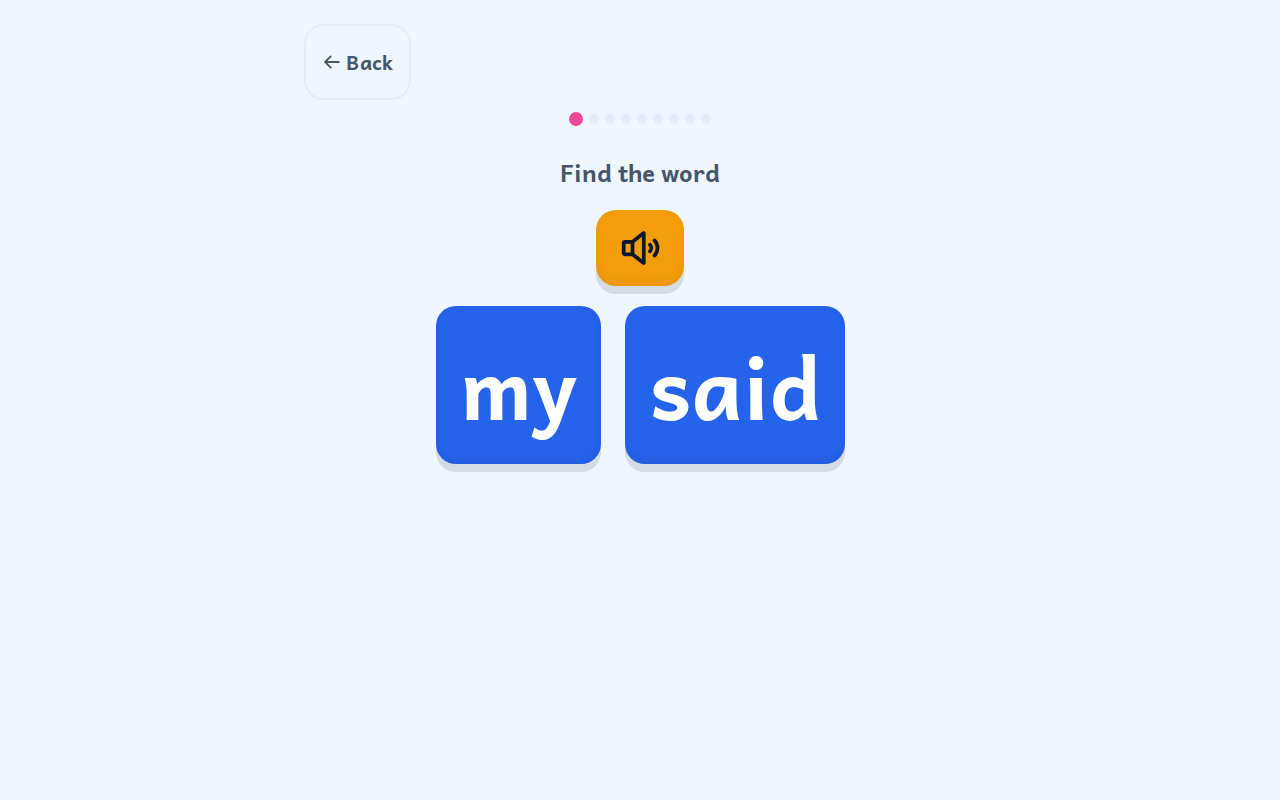
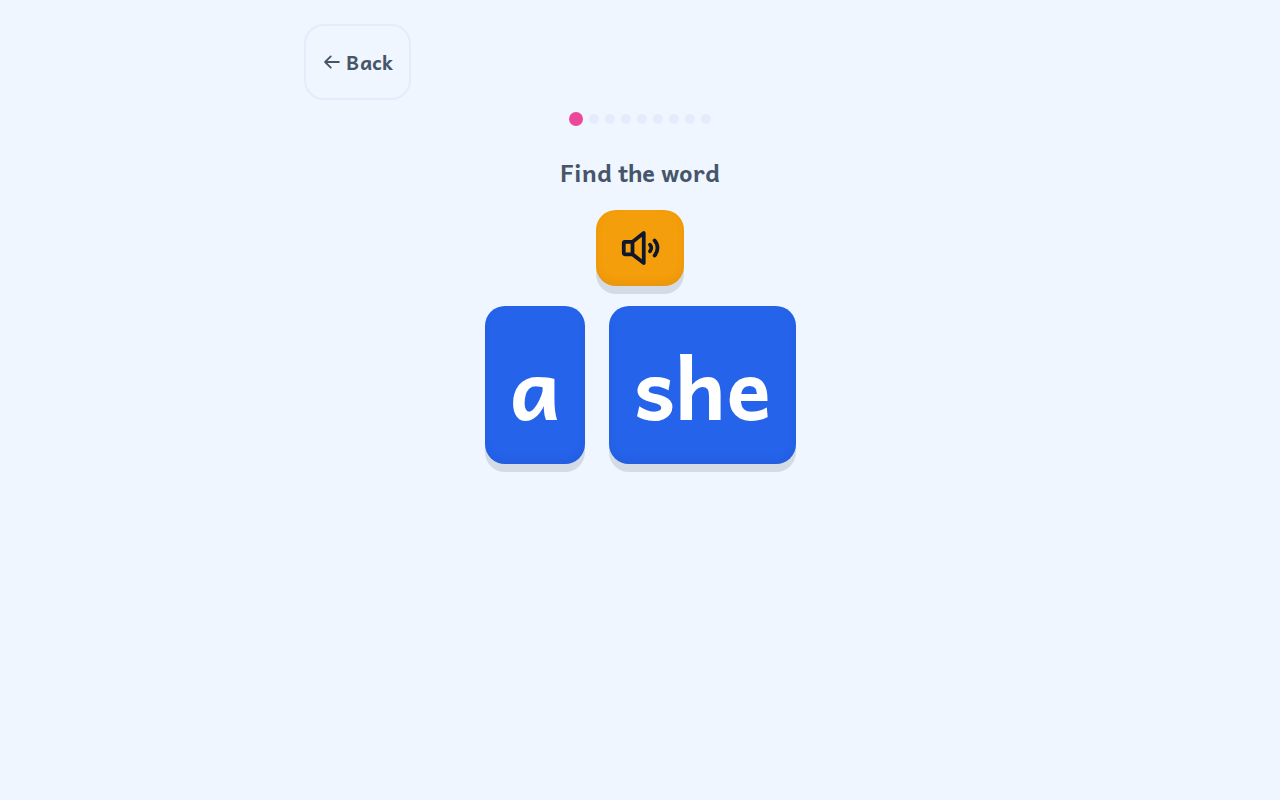
feat(find): blank tiles while the word is shown, and a label that says what the tap does
Find it's errorless reveal is four seconds on a box-0 word: instruction,
speaker, a word that appears and vanishes, and nothing to tap. A parent
watching read it as "is something missing?". The tiles are on screen
from the start now -- full size, dimmed, inert and blank. Blank is the
part that matters: dimmed tiles with the words on them would put `said`
back beside the written `said` and the shape match back with it. Empty
clay shapes say only "these are coming".

"Tell them" promised the parent would; the tap plays the word. It is
"Say it for them" now, in Read it and the card run.

The grown-up switch says what turning it on changes: "In Read it rounds
you judge: tap They read it, or Say it for them."

ClayButton gains a disabled state (full size, 40% opacity, inert to
taps and the tap animation). The e2e helpers and three specs wait for a
tile to be enabled before tapping it.

Claude-Session: https://claude.ai/code/session_017EswceWBJzqch5pch5GVbX

Changed region(s): [[0.3438, 0.375, 0.6875, 0.5938]]

diff --git a/tests/unit/games/word-reveal.test.tsx b/tests/unit/games/word-reveal.test.tsx
@@ -1,5 +1,5 @@
 import { describe, it, expect, vi, beforeEach, afterEach } from 'vitest'
-import { act, render, screen } from '@testing-library/react'
+import { act, render, screen, within } from '@testing-library/react'
 import userEvent from '@testing-library/user-event'
 import { ROUND_TYPES, type RoundType } from '@/components/games'
 import { ListenAndFind } from '@/components/games/ListenAndFind'
@@ -89,14 +89,22 @@ describe('the word is shown, spoken, hidden, and only then asked for', () => {
   it('opens on the written word with nothing to tap', () => {
     render(<ListenAndFind round={boxZero()} onAnswer={() => {}} onMiss={() => {}} />)
     expect(screen.getByTestId('prompt-word')).toHaveTextContent(said.text)
-    expect(screen.queryByTestId('choices')).toBeNull()
+    // The tiles are on screen so the wait reads as a wait, but every one
+    // is inert -- and blank, so the written word has no twin to match
+    // among them.
+    const tiles = screen.getByTestId('choices')
+    for (const b of within(tiles).getAllByRole('button')) expect(b).toBeDisabled()
+    // The word is drawn grapheme by grapheme, so look at every text node.
+    for (const t of within(tiles).queryAllByText(/\S/)) expect(t).not.toBeVisible()
+    expect(within(tiles).queryAllByText(/\S/).length).toBeGreaterThan(0)
   })
 
   it('takes the word away before the choices arrive', () => {
     render(<ListenAndFind round={boxZero()} onAnswer={() => {}} onMiss={() => {}} />)
     playOutReveal()
     expect(screen.queryByTestId('prompt-word')).toBeNull()
-    expect(screen.getByTestId('choices')).toBeInTheDocument()
+    for (const b of within(screen.getByTestId('choices')).getAllByRole('button')) expect(b).toBeEnabled()
+    expect(screen.getByTestId('choices')).toHaveTextContent(said.text)
   })
 
   /**
@@ -110,7 +118,7 @@ describe('the word is shown, spoken, hidden, and only then asked for', () => {
     const upFor = spokenMs('findTheWord', said.audioId)
     advance(upFor - 50)
     expect(screen.getByTestId('prompt-word')).toBeInTheDocument()
-    expect(screen.queryByTestId('choices')).toBeNull()
+    for (const b of within(screen.getByTestId('choices')).getAllByRole('button')) expect(b).toBeDisabled()
     advance(50 + REVEAL_FADE_MS + 10)
     expect(screen.queryByTestId('prompt-word')).toBeNull()
   })
@@ -168,7 +176,15 @@ describe.each(Object.entries(ROUND_TYPES))('round type: %s', (id, Game) => {
   it('never shows the written word beside the things the child taps', () => {
     render(<Game round={boxZero()} onAnswer={() => {}} onMiss={() => {}} />)
     const wordUp = screen.queryByTestId('prompt-word') !== null
-    if (wordUp) expect(screen.queryByTestId(tappable)).toBeNull()
+    if (wordUp) {
+      // Either not there yet, or there as blank inert placeholders --
+      // never a live tile with a word on it beside the written word.
+      const early = screen.queryByTestId(tappable)
+      if (early) {
+        for (const b of within(early).getAllByRole('button')) expect(b).toBeDisabled()
+        for (const t of within(early).queryAllByText(/\S/)) expect(t).not.toBeVisible()
+      }
+    }
     playOutReveal()
     expect(screen.queryByTestId('prompt-word')).toBeNull()
     expect(screen.getByTestId(tappable)).toBeInTheDocument()

diff --git a/src/components/games/ListenAndFind.tsx b/src/components/games/ListenAndFind.tsx
@@ -100,7 +100,7 @@ export function ListenAndFind({ round, onAnswer, onMiss }: GameProps) {
   }
 
   function choose(id: string) {
-    if (closing !== 'asking') return
+    if (!asking || closing !== 'asking') return
     if (id === round.word.id) {
       answeredPrompted.current = prompted
       praiseEndsAt.current = Date.now() + say('wellDone')
@@ -157,15 +157,34 @@ export function ListenAndFind({ round, onAnswer, onMiss }: GameProps) {
         than listening and always works; a beat after it, the tap is a
         small act of memory.
 
+        But the wait is four seconds on a box-0 word, and for a parent
+        watching it was four seconds of "is something missing up there?"
+        -- an instruction, a speaker, a word that appears and vanishes,
+        and nothing to tap. So the tiles are on screen from the start:
+        full size, dimmed, inert, and *blank*. Blank is the part that
+        matters. Dimmed tiles with the words on them would put `said`
+        back beside the written `said`, and the shape match would be
+        back with them; a child could find it while the word was still
+        up and tap it the instant they woke. Empty clay shapes say only
+        "these are coming", which is all the screen needed to say.
+
         They go once the answer is in, so the closing moment has the
         screen to itself and a second tap cannot land on a round that is
         already over.
       */}
-      {asking && closing === 'asking' && (
-        <div data-testid="choices" className="flex flex-wrap justify-center gap-6">
+      {closing === 'asking' && (
+        <div data-testid="choices" aria-busy={!asking} className="flex flex-wrap justify-center gap-6">
           {choices.map((w) => (
-            <ClayButton key={w.id} tone="primary" ariaLabel={w.text} onPress={() => choose(w.id)}>
-              <WordTile word={w} size="lg" />
+            <ClayButton
+              key={w.id}
+              tone="primary"
+              ariaLabel={w.text}
+              disabled={!asking}
+              onPress={() => choose(w.id)}
+            >
+              <span style={{ visibility: asking ? undefined : 'hidden' }}>
+                <WordTile word={w} size="lg" />
+              </span>
             </ClayButton>
           ))}
         </div>

diff --git a/src/components/clay/Button.tsx b/src/components/clay/Button.tsx
@@ -9,6 +9,11 @@ interface Props {
   icon?: boolean
   tone?: 'primary' | 'play' | 'fun'
   onPress: () => void
+  /**
+   * Present but not yet live: rendered at full size so nothing moves
+   * when it wakes, dimmed, and inert to taps and to the tap animation.
+   */
+  disabled?: boolean
   children?: ReactNode
 }
 
@@ -19,20 +24,22 @@ const TONES = {
 } as const
 
 export function ClayButton({
-  label, ariaLabel, icon, tone = 'primary', onPress, children,
+  label, ariaLabel, icon, tone = 'primary', onPress, disabled = false, children,
 }: Props) {
   return (
     <motion.button
       type="button"
       aria-label={ariaLabel ?? label}
       onClick={onPress}
-      whileTap={{ scale: 0.95 }}
+      disabled={disabled}
+      whileTap={disabled ? undefined : { scale: 0.95 }}
       transition={{ type: 'spring', stiffness: 400, damping: 22 }}
       style={{ minWidth: MIN_TARGET_PX, minHeight: MIN_TARGET_PX }}
       className={`${TONES[tone]} rounded-clay shadow-clay px-6 py-4
         text-[clamp(1.25rem,2.4vw,1.75rem)] font-bold cursor-pointer select-none
         focus-visible:outline-4 focus-visible:outline-offset-4
-        focus-visible:outline-fun`}
+        focus-visible:outline-fun
+        disabled:opacity-40 disabled:cursor-default disabled:pointer-events-none`}
     >
       {children ?? (icon ? null : label)}
     </motion.button>

diff --git a/tests/unit/family/card-run.test.tsx b/tests/unit/family/card-run.test.tsx
@@ -40,7 +40,7 @@ describe('going through the cards', () => {
 
   it('is the adult who answers, at an adult size', () => {
     run()
-    for (const name of ['They read it', 'Tell them the word']) {
+    for (const name of ['They read it', 'Say the word for them']) {
       expect(screen.getByRole('button', { name }).style.minHeight)
         .toBe(`${ADULT_TARGET_PX}px`)
     }
@@ -54,7 +54,7 @@ describe('going through the cards', () => {
     expect(onRead.mock.calls[0][1]).toBe(true)
     expect(screen.getByText(`Card 2 of ${SET.words.length}`)).toBeInTheDocument()
 
-    await userEvent.click(screen.getByRole('button', { name: 'Tell them the word' }))
+    await userEvent.click(screen.getByRole('button', { name: 'Say the word for them' }))
     expect(onRead.mock.calls[1][1]).toBe(false)
     // Telling them means they hear it -- that is what telling them is.
     expect(played.join(' ')).toContain(wordAudioUrl(onRead.mock.calls[1][0].audioId))
@@ -64,7 +64,7 @@ describe('going through the cards', () => {
     run()
     for (let i = 0; i < SET.words.length; i++) {
       await userEvent.click(screen.getByRole('button', {
-        name: i === 0 ? 'Tell them the word' : 'They read it',
+        name: i === 0 ? 'Say the word for them' : 'They read it',
       }))
     }
     expect(screen.getByTestId('card-run-done')).toBeInTheDocument()

diff --git a/src/components/games/ReadIt.tsx b/src/components/games/ReadIt.tsx
@@ -51,7 +51,7 @@ const ADULT_PANEL = `flex flex-col gap-3 w-full max-w-md rounded-clay border-2 b
  *  - **With a grown-up**, the grown-up judges, from adult-sized controls
  *    worded for an adult. That *is* evidence -- it is the school's own
  *    assessment, done at the kitchen table -- so "They read it" resolves
- *    unaided and promotes like any other round, and "Tell them" speaks
+ *    unaided and promotes like any other round, and "Say it for them" speaks
  *    the word and resolves prompted, exactly as a hint does elsewhere.
  *
  * Then the second half of the school's routine, which only happens with
@@ -194,7 +194,7 @@ export function ReadIt({ round, onAnswer, onMiss, onRead }: GameProps) {
           <p className="leading-normal">Did they read it on their own?</p>
           <div className="flex flex-wrap gap-4">
             <AdultButton label="They read it" primary onPress={() => adultConfirmed(true)} />
-            <AdultButton label="Tell them" ariaLabel="Tell them the word" onPress={() => adultConfirmed(false)} />
+            <AdultButton label="Say it for them" ariaLabel="Say the word for them" onPress={() => adultConfirmed(false)} />
           </div>
         </div>
       ) : (

diff --git a/src/components/family/CardRun.tsx b/src/components/family/CardRun.tsx
@@ -23,7 +23,7 @@ import type { Word } from '@/lib/words/types'
  * So: no rounds, no budget, no rotation, no reward. Every word on the
  * island in turn, the word alone with no sound, and two adult controls.
  * It is the same judgement a Read it round asks for and it is recorded
- * the same way -- "They read it" is unaided and promotes, "Tell them"
+ * the same way -- "They read it" is unaided and promotes, "Say it for them"
  * speaks the word and does not. The ordinary day floor still applies, so
  * going through the cards twice in an evening cannot run a word up the
  * ladder.
@@ -118,7 +118,7 @@ export function CardRun({ words, onRead, onDone }: Props) {
 
       <div className="flex flex-wrap justify-center gap-4">
         <AdultButton label="They read it" primary onPress={() => answer(true)} />
-        <AdultButton label="Tell them" ariaLabel="Tell them the word" onPress={() => answer(false)} />
+        <AdultButton label="Say it for them" ariaLabel="Say the word for them" onPress={() => answer(false)} />
       </div>
     </div>
   )

diff --git a/src/components/clay/AdultButton.tsx b/src/components/clay/AdultButton.tsx
@@ -13,9 +13,13 @@ import { ADULT_TARGET_PX } from '@/lib/constants'
  * the border, not the fill.
  *
  * Shared by Read it and the card run because they are the same judgement
- * -- "They read it" / "Tell them" -- a minute apart, and for a while they
+ * -- "They read it" / "Say it for them" -- a minute apart, and for a while they
  * wore two visual languages: the card run's filled blue against Read
  * it's outline. Same words, same weight, same button.
+ *
+ * The second label was "Tell them" for a while, which promised that the
+ * parent would. What happens is that the app says the word -- the tap
+ * plays it -- so the label now says what the tap does.
  */
 export function AdultButton(
   { label, ariaLabel, primary, onPress }: {

diff --git a/tests/e2e/game-helpers.ts b/tests/e2e/game-helpers.ts
@@ -176,6 +176,10 @@ export async function awaitRoundSettled(page: Page): Promise<void> {
 async function tapTargetWord(page: Page): Promise<void> {
   const target = await targetWord(page)
   const buttons = page.getByTestId(ROUND_TESTID.find).getByRole('button')
+  // The tiles are on screen from the top of the round, blank and inert
+  // until the word has been shown and taken away; a forced click on one
+  // of those lands on nothing.
+  await expect(buttons.first()).toBeEnabled({ timeout: 15_000 })
   const count = await buttons.count()
   for (let i = 0; i < count; i++) {
     const name = (await buttons.nth(i).getAttribute('aria-label')) ?? ''

diff --git a/src/lib/teaching.ts b/src/lib/teaching.ts
@@ -64,7 +64,8 @@ export const READ_ROUND_ENABLED = true
  * is worth. Off, the child judges herself: recorded, never promoting,
  * and Read it stays out of the rotation altogether (see `roundCycleFor`)
  * because a self-report cannot be evidence. On, the grown-up judges:
- * "They read it" promotes on the ordinary ladder and "Tell them" records
+ * "They read it" promotes on the ordinary ladder and "Say it for them"
+ * records
  * a miss -- the school's own assessment, done at the kitchen table.
  *
  * It was briefly on by default, on the reasoning that this household

diff --git a/tests/e2e/misses.spec.ts b/tests/e2e/misses.spec.ts
@@ -57,6 +57,10 @@ test('a wrong tap is recorded, and shows the child nothing', async ({ page }) =>
   const markerBefore = await roundMarker(page)
 
   const choices = page.getByTestId(ROUND_TESTID.find).getByRole('button')
+  // The tiles are on screen blank and inert until the word has been shown
+  // and taken away; a forced tap on one of those is not a miss, it is
+  // nothing.
+  await expect(choices.first()).toBeEnabled({ timeout: 15_000 })
 
   // The one button that is visibly not the word that was called.
   let wrong = null

diff --git a/tests/unit/games/read-it.test.tsx b/tests/unit/games/read-it.test.tsx
@@ -132,7 +132,7 @@ describe('Read it, with a grown-up watching', () => {
     const onMiss = vi.fn()
     renderRound(true, { onAnswer, onRead, onMiss })
 
-    await userEvent.click(screen.getByRole('button', { name: 'Tell them the word' }))
+    await userEvent.click(screen.getByRole('button', { name: 'Say the word for them' }))
     expect(played.join(' ')).toContain(wordAudioUrl(said.audioId))
     expect(onRead).not.toHaveBeenCalled()
     // Recorded as a miss: the adult path must be able to cost a word

diff --git a/tests/e2e/layout.spec.ts b/tests/e2e/layout.spec.ts
@@ -255,6 +255,7 @@ test.describe('a child can leave a running session', () => {
       // arrive once it has been said and has faded.
       await expect(page.getByTestId('choices')).toBeVisible()
       const answers = page.getByTestId('choices').getByRole('button')
+      await expect(answers.first()).toBeEnabled({ timeout: 15_000 })
       let nearest = Number.POSITIVE_INFINITY
       for (let i = 0; i < (await answers.count()); i++) {
         const box = (await answers.nth(i).boundingBox())!
